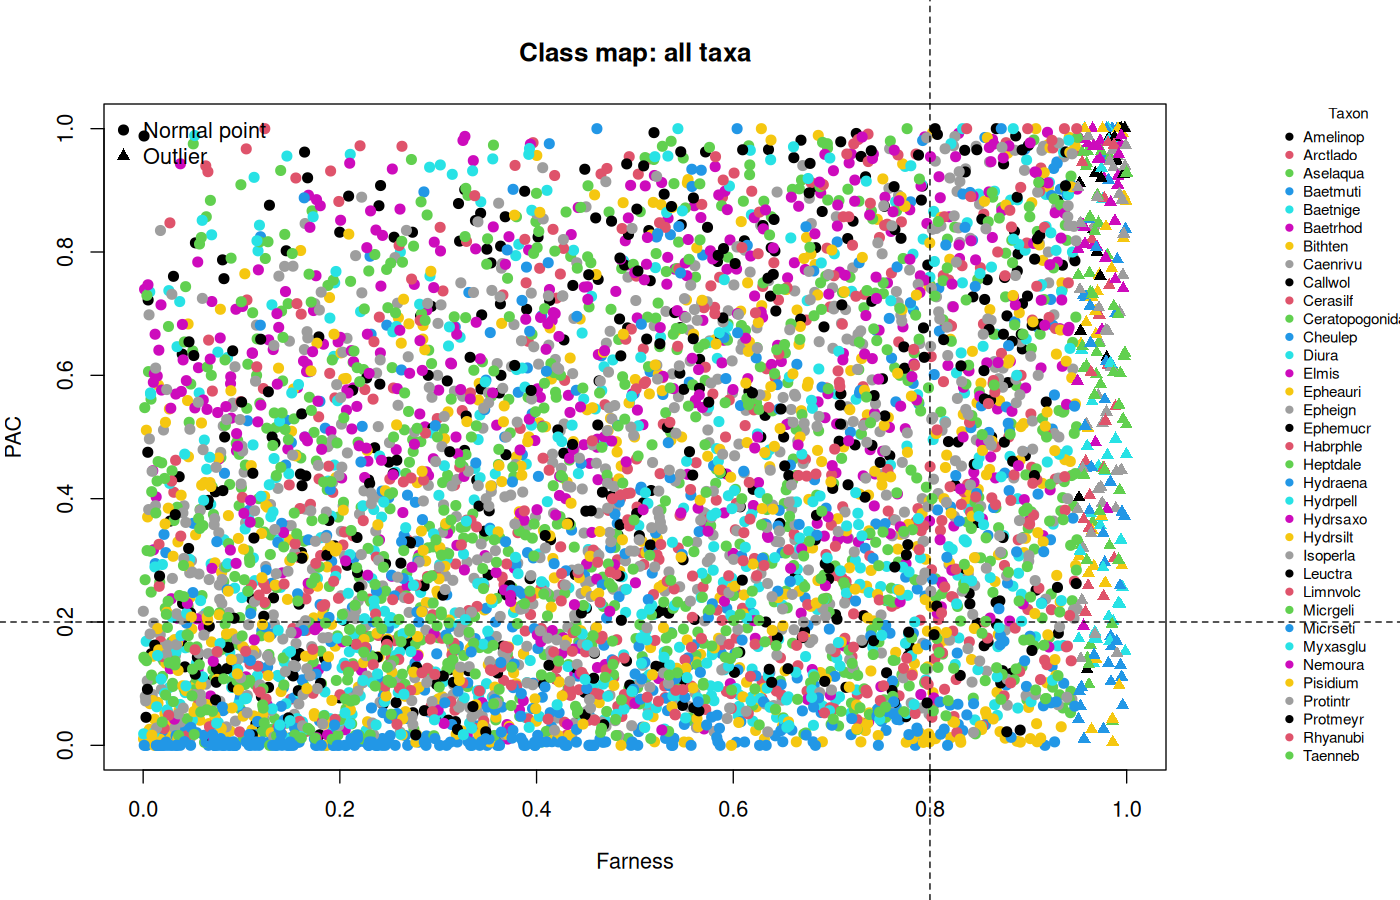
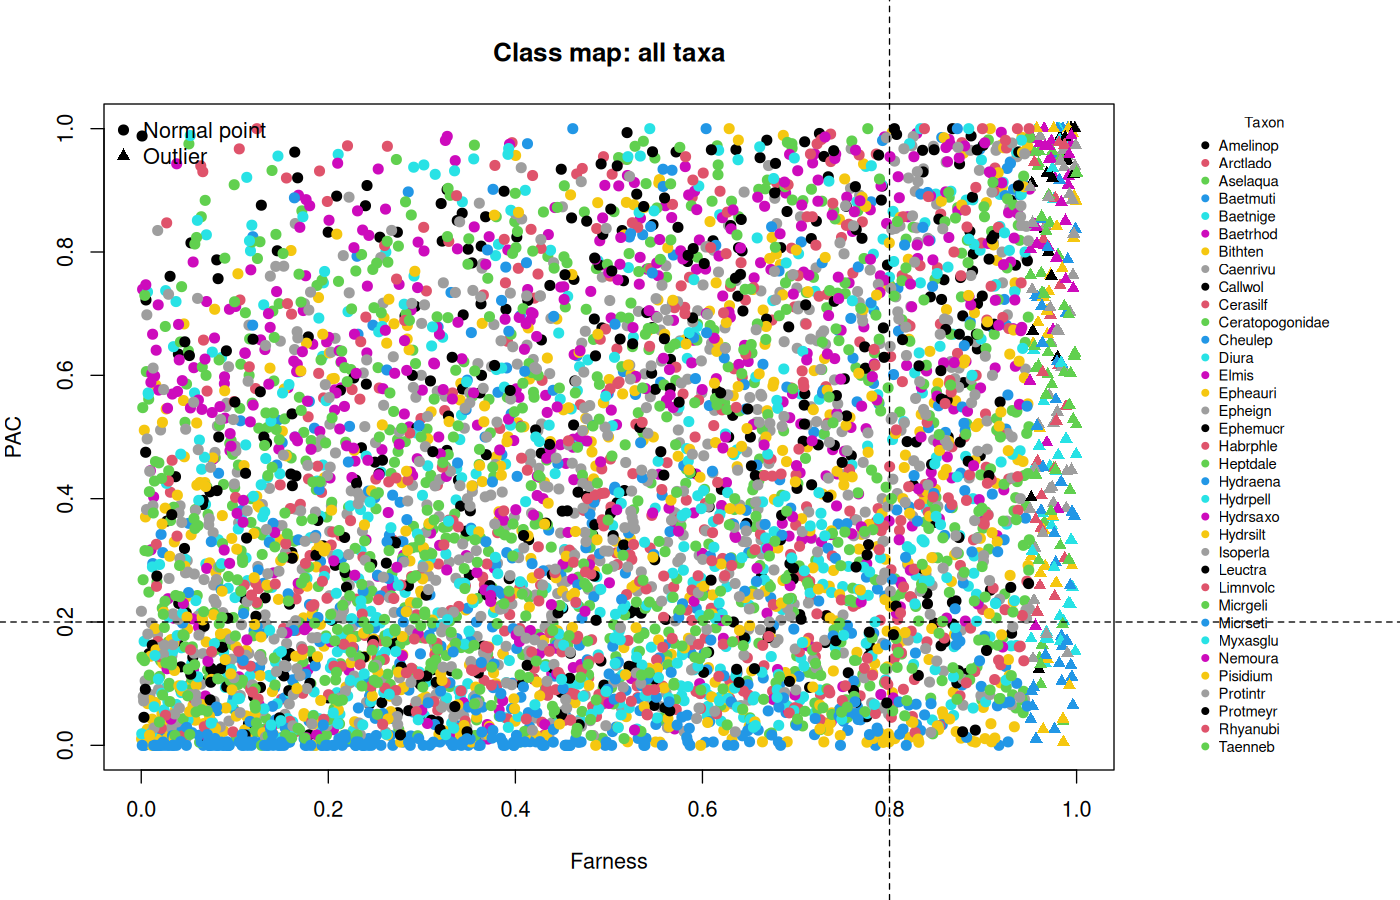
Add MIT License

diff --git a/README.md b/README.md
@@ -2,7 +2,7 @@
 
 Macroinvertebrates, such as insects, crustaceans, and molluscs, are important indicators of water quality and are often used in biomonitoring. Traditionally, identifying these organisms depends on taxonomic experts, which can be slow and prone to mistakes. Using machine learning could speed up the process and produce more consistent results, provided the models are chosen carefully.
 
-Our dataset contains 5,514 observations with 65 measurements for each specimen, covering both shape and intensity features. For the initial exploratory work, we focused on 16 features: area (`Area`), perimeter (`Perim`), width (`Width`), height (`Height`), major and minor axes (`Major`, `Minor`), angle (`Angle`), circularity (`Circ`), Feret diameter (`Feret`), and grey-level intensity measures including mean (`Mean.gray.`), standard deviation (`StdDev.gray.`), mode (`Mode.gray.`), integrated density (`IntDen.gray.`), median (`Median.gray.`), skewness (`Skew.gray.`), and kurtosis (`Kurt.gray.`). The dataset covers 35 different taxa. Some species, like *Taenneb*, are well represented with 500 samples (followed by *Isoperla* with 450, *Aselaqua* with 278, and *Protintr* with 268), while others, such as *Ceratopogonidae*, have only 48. This imbalance makes classification more difficult, as models may favour the more common classes.
+Our dataset contains 5,514 observations across 65 columns (64 numeric measurements and the taxon label `Class`) for each specimen, covering both shape and intensity features. For the initial exploratory work, we focused on 16 features: area (`Area`), perimeter (`Perim`), width (`Width`), height (`Height`), major and minor axes (`Major`, `Minor`), angle (`Angle`), circularity (`Circ`), Feret diameter (`Feret`), and grey-level intensity measures including mean (`Mean.gray.`), standard deviation (`StdDev.gray.`), mode (`Mode.gray.`), integrated density (`IntDen.gray.`), median (`Median.gray.`), skewness (`Skew.gray.`), and kurtosis (`Kurt.gray.`). The dataset covers 35 different taxa. Some species, like *Taenneb*, are well represented with 500 samples (followed by *Isoperla* with 450, *Aselaqua* with 278, and *Protintr* with 268), while others, such as *Ceratopogonidae*, have only 48. This imbalance makes classification more difficult, as models may favour the more common classes.
 
 ![Number of samples for each macroinvertebrate taxon in the dataset](figures/classCounts.png)
 
@@ -24,13 +24,13 @@ Each feature was examined using Q–Q plots. The grey-level intensity features a
 
 ![Q-Q plots for the 16 selected features](figures/qqFeatures.png)
 
-To check the joint distribution across all 16 features, squared Mahalanobis distances were calculated as
+To check the joint distribution across all 16 features, pooled squared Mahalanobis distances were calculated as
 
 $$
 D^2 = (x - \mu)^\top \Sigma^{-1} (x - \mu),
 $$
 
-where $x$ is the feature vector, $\mu$ is the mean vector, and $\Sigma$ is the covariance matrix. The Mahalanobis distance Q–Q plot shows that the distances roughly follow a chi-square distribution across most of the data, indicating an approximate elliptical distribution. This supports the use of parametric classification methods such as discriminant analysis.
+where $x$ is the feature vector, $\mu$ is the pooled mean vector, and $\Sigma$ is the pooled covariance matrix. Comparing $D^2$ against $\chi^2_{16}$ quantiles shows that distances follow the reference line across the lower bulk of the data (up to $\chi^2_{16} \approx 20\text{–}25$) before curving sharply upward in the upper tail (reaching $D^2 = 1{,}225.4$). This heavy-tailed departure reflects right-skewed size measurements (`Area`, `IntDen.gray.`) and differences in location and scale across the 35 pooled taxa, motivating classifiers like QDA that estimate a separate mean and covariance matrix within each taxon.
 
 ![Mahalanobis distances compared against chi-square quantiles](figures/qqMahalanobis.png)
 
@@ -38,15 +38,15 @@ The features also show clear correlation patterns. Shape-related measurements, s
 
 ![Correlation matrix for the 16 exploratory features](figures/corSelected.png)
 
-![Correlation matrix across all 65 numeric measurements](figures/corAll.png)
+![Correlation matrix across all 64 numeric measurements](figures/corAll.png)
 
 ### Principal Component Analysis
 
-Principal Component Analysis (PCA) was applied to the 16 standardised features to understand the structure of the macroinvertebrate dataset and see if the features naturally separate the taxa. The first principal component (PC1) explains 45.82% of the variance, PC2 explains 21.17%, and PC3 explains 11.21%. Together, the first 5 principal components capture 90.05% of the total variance, and the first 7 components capture 94.68%. The scree plot confirms that the first few components capture most of the variation, reflecting the correlations among the morphological measurements.
+Principal Component Analysis (PCA) was applied to the 16 standardised features to understand the structure of the macroinvertebrate dataset and see if the features naturally separate the taxa. The first principal component (PC1) explains 45.82% of the variance (`0.4582`), PC2 explains 21.18% (`0.21175` in `results/pcaVariance.csv`, printed as `0.2117` by `summary(pca)`), and PC3 explains 11.21%. Together, the first 5 principal components capture 90.05% of the total variance, and the first 7 components capture 94.68%. The scree plot confirms that the first few components capture most of the variation, reflecting the correlations among the morphological measurements.
 
 ![Scree plot showing the proportion of variance explained by each principal component](figures/pcaScree.png)
 
-As shown in the PC1–PC2 scatter plot, the first two principal components show clear clustering for the most common taxa, while rare taxa are harder to see because there are fewer samples and they contribute little to the overall variation.
+As shown in the PC1–PC2 scatter plot, the first two principal components show partial separation along the main size and intensity gradients, with substantial overlap among the 35 taxa in two dimensions and rare taxa contributing little to the overall spread.
 
 ![Specimens projected onto the first two principal components (PC1 and PC2)](figures/pcaScatter.png)
 
@@ -62,17 +62,17 @@ $$
 \Sigma = \frac{1}{n - 1} \sum_{i=1}^{n} (x_i - \bar{x})(x_i - \bar{x})^\top
 $$
 
-are weighted by the number of samples in each class. This means the principal components mainly reflect the variation of the abundant taxa. PCA helps summarise the data, but it does not improve classification when passed into other models because rare taxa contribute little to the leading components.
+are weighted by the number of samples in each class. This means the principal components mainly reflect the variation of the abundant taxa. In addition, in `R/models.R`, `RF_PCA` and `kNN_PCA` apply PCA to the 15 already correlation-pruned features (retaining 11 components for 95% variance), so dropping the remaining 5% of variance removes class-specific signal and lowers cross-validated accuracy.
 
 ### Outliers and Uncertainty
 
-Outliers and ambiguous specimens were examined using class maps (`R/maps.R`), which plot the probability of alternative class (PAC, computed from out-of-bag Random Forest probabilities) against farness (the rank-normalised Mahalanobis distance of each specimen from its own class centre, with points above 0.95 marked as outliers). These analyses showed that some rare taxa have high variability, highlighting the need for models that can account for class-specific covariance and uncertainty.
+Outliers and ambiguous specimens were examined using class maps (`R/maps.R`), which plot the probability of alternative class (PAC, computed from out-of-bag Random Forest probabilities) against farness (the rank-normalised Mahalanobis distance of each specimen from its own class centre on $(0, 1]$, with the top 5% above 0.95 marked as outliers). Across all 35 taxa, many specimens sit at moderate-to-high PAC, highlighting substantial inter-taxon overlap and the need for models that account for class-specific covariance structures.
 
 ![Class map across all 35 taxa](figures/classMapAll.png)
 
 ## Multi-Class Classification and Model Performance
 
-Before fitting the classifiers in `R/models.R`, the dataset was split into an 80% training set and a 20% hold-out test set. Using only the 80% training split across all 65 columns, near-zero-variance predictors, variables with pairwise correlations above 0.75, and linear combinations were removed. This filtering kept 15 features (`results/keptFeatures.txt`): `Angle`, `Circ`, `FeretY`, `AR`, `StdDev.gray.`, `Min.gray.`, `Max.gray.`, `XM.gray.`, `StdDev.blue.`, `Min.blue.`, `Max.blue.`, `Max.red.`, `IntDen.red.`, `Skew.red.`, and `Kurt.red.`.
+Before fitting the classifiers in `R/models.R`, the dataset was split into an 80% training set and a 20% hold-out test set. Using only the 80% training split across all 64 numeric columns, near-zero-variance predictors, variables with pairwise correlations above 0.75, and linear combinations were removed. This filtering kept 15 features (`results/keptFeatures.txt`): `Angle`, `Circ`, `FeretY`, `AR`, `StdDev.gray.`, `Min.gray.`, `Max.gray.`, `XM.gray.`, `StdDev.blue.`, `Min.blue.`, `Max.blue.`, `Max.red.`, `IntDen.red.`, `Skew.red.`, and `Kurt.red.`.
 
 Seven models were trained on the 80% training data using 10-fold cross-validation repeated 5 times: Quadratic Discriminant Analysis (`QDA`), Random Forest (`RF`), Random Forest with PCA (`RF_PCA`), k-Nearest Neighbours (`kNN`), k-Nearest Neighbours with PCA (`kNN_PCA`), Linear Discriminant Analysis (`LDA`), and a Decision Tree (`Tree`). The table below summarises their cross-validated performance (`results/cvTable.csv`).
 
@@ -90,7 +90,7 @@ Seven models were trained on the 80% training data using 10-fold cross-validatio
 
 QDA achieved the lowest misclassification error (`0.2856`, accuracy `0.7144`, kappa `0.7021`), followed closely by Random Forest (`0.7015` accuracy). Evaluating the trained QDA model on the untouched 20% hold-out test set (`results/holdout.csv`) gave an overall accuracy of `0.7325` (95% CI: `0.7052, 0.7586`), a Kappa of `0.7209`, macro-precision of `0.7384`, macro-recall of `0.7240`, macro-F1 of `0.7311`, and balanced accuracy of `0.8580`. On the hold-out set, distinctive taxa such as *Micrgeli*, *Myxasglu*, *Pisidium*, and *Callwol* reached `1.0000` sensitivity (and *Bithten* and *Micrseti* reached `0.9787`), while the hardest taxa to classify were *Heptdale* (`0.2258` sensitivity), *Habrphle* (`0.3333`), *Hydrpell* (`0.3889`), *Hydrsaxo* (`0.4167`), and *Protmeyr* (`0.4286`).
 
-![QDA top posterior probability against margin over the runner-up class](figures/qdaConfidence.png)
+![QDA top posterior probability against margin over the runner-up class on the training rows](figures/qdaConfidence.png)
 
 ### QDA Visualisation
 
@@ -110,17 +110,17 @@ The QDA decision boundaries for the four most common species (*Taenneb*, *Isoper
 
 This dataset presents two main challenges: class imbalance and differences in feature variability between taxa. Some taxa are well represented in the dataset, while others have only a small number of samples. This imbalance makes classification more difficult because models tend to learn patterns from common taxa more easily than from rare ones. In addition, the spread of the features differs across taxa: some taxa form compact clusters in feature space, while others show much wider variation.
 
-The class maps help illustrate these challenges. For the eight most common taxa, points form tight clusters with few mistakes, indicating high classification confidence. In contrast, the eight rarest taxa appear more scattered and contain more misclassified points, reflecting the difficulty of learning reliable patterns when only a small number of samples are available.
+In `R/maps.R`, separate 8-taxon class maps are also fitted on the eight most common taxa and on the eight rarest taxa (with farness rank-normalised on $(0, 1]$ in each plot). Among the eight most abundant taxa (*Taenneb*, *Isoperla*, *Aselaqua*, *Protintr*, *Baetmuti*, *Micrseti*, *Bithten*, *Diura*), morphological overlap among the large stoneflies and mayflies produces a broad band of high-PAC points (`17.9%` with $\text{PAC} > 0.5$, `46.3%` with $\text{PAC} > 0.2$), whereas distinctive taxa such as *Bithten* and *Micrseti* sit near $\text{PAC} = 0$. When the eight rarest taxa are separated only from one another, several morphologically distinct taxa (*Callwol*, *Micrgeli*, *Pisidium*, *Ceratopogonidae*, *Ephemucr*) have near-zero PAC (`6.4%` with $\text{PAC} > 0.5$, `20.1%` with $\text{PAC} > 0.2$), with most ambiguity concentrated in *Caenrivu*, *Habrphle*, and *Arctlado*.
 
 ![Class map for the eight most frequent taxa](figures/classMapTop8.png)
 
 ![Class map for the eight least frequent taxa](figures/classMapLast8.png)
 
-Quadratic Discriminant Analysis performs best because it allows each class to have its own covariance matrix. This flexibility enables the model to capture differences not only in the mean feature values of taxa but also in how their features vary in space. Other models impose stronger assumptions or are more sensitive to the dataset structure: LDA assumes equal covariance across taxa, which produces boundaries that are too simple (`0.5512` accuracy); kNN (`0.5894`) is strongly affected by class imbalance, making rare taxa more likely to be misclassified; and Random Forests (`0.7015`) can model non-linear relationships but still struggle slightly more than QDA when classes overlap strongly and rare taxa contribute little information to the training process.
+Quadratic Discriminant Analysis performs best across the full 35-taxon problem because it allows each class to have its own covariance matrix. This flexibility enables the model to capture differences not only in the mean feature values of taxa but also in how their features vary in space. Other models impose stronger assumptions or are more sensitive to the dataset structure: LDA assumes equal covariance across taxa, which produces boundaries that are too simple (`0.5512` accuracy); kNN (`0.5894`) is strongly affected by class imbalance, making rare taxa more likely to be misclassified; and Random Forests (`0.7015`) can model non-linear relationships but still struggle slightly more than QDA when classes overlap strongly and rare taxa contribute little information to the training process.
 
 ## Regularised Logistic Regression: *Aselaqua* vs. *Isoperla*
 
-In the second part of the study (`R/logistic.R`), we classify two well-represented species of waterbugs: *Aselaqua* (278 specimens) and *Isoperla* (450 specimens). Logistic regression is a natural choice because it gives a probability for each class. When predictors are many (all 65 measurements) or strongly correlated, standard logistic regression can overfit or give unstable coefficients. To handle this, we compare standard stepwise logistic regression against four regularisation methods using `glmnet`: Ridge, Lasso, Elastic Net, and Relaxed Lasso.
+In the second part of the study (`R/logistic.R`), we classify two well-represented species of waterbugs: *Aselaqua* (278 specimens) and *Isoperla* (450 specimens). Logistic regression is a natural choice because it gives a probability for each class. When predictors are many (all 64 numeric measurements) or strongly correlated, standard logistic regression can overfit or give unstable coefficients. To handle this, we compare standard stepwise logistic regression against four regularisation methods using `glmnet`: Ridge, Lasso, Elastic Net, and Relaxed Lasso.
 
 ### Logistic Regression Model
 
@@ -139,7 +139,7 @@ $$
 where $\beta_0$ is the intercept and $\beta$ is the vector of coefficients. The coefficients are estimated using maximum likelihood, with log-likelihood function
 
 $$
-\ell(\beta_0, \beta) = \sum_{i=1}^{n} \left[ y_i(\beta_0 + x_i^\top \beta) - \log\left(1 + e^{\beta_0 + x_i^\top \beta}\right) \right]
+\ell(\beta_0, \beta) = \sum_{i=1}^{n} \ell_i(\beta_0, \beta), \qquad \ell_i(\beta_0, \beta) = y_i(\beta_0 + x_i^\top \beta) - \log\left(1 + e^{\beta_0 + x_i^\top \beta}\right),
 $$
 
 and maximum likelihood estimator
@@ -154,20 +154,20 @@ $$
 \text{Var}(\hat{\beta}) \approx (X^\top W X)^{-1},
 $$
 
-where $X$ is the model matrix and $W$ is a diagonal matrix with $w_{ii} = \pi_i(1 - \pi_i)$. Highly correlated predictors make $X^\top W X$ nearly singular, which increases variance and can lead to unstable predictions. In addition, when the two species are nearly separable across 65 correlated predictors, standard unpenalised logistic regression produces extreme fitted probabilities (numerically 0 or 1), causing coefficient estimates to blow up and hurting out-of-sample performance.
+where $X$ is the model matrix and $W$ is a diagonal matrix with $w_{ii} = \pi_i(1 - \pi_i)$. Highly correlated predictors make $X^\top W X$ nearly singular, which increases variance and can lead to unstable predictions. In addition, when the two species are nearly separable across 64 correlated predictors, standard unpenalised logistic regression produces extreme fitted probabilities (numerically 0 or 1), causing coefficient estimates to blow up and hurting out-of-sample performance.
 
 ### Regularised Logistic Regression
 
 Regularised logistic regression adds a penalty to reduce variance:
 
 $$
-\min_{\beta_0, \beta} \left[ -\frac{1}{n} \sum_{i=1}^{n} \ell(y_i, \beta_0 + x_i^\top \beta) + \lambda \left( \frac{1 - \alpha}{2} \|\beta\|_2^2 + \alpha \|\beta\|_1 \right) \right],
+\min_{\beta_0, \beta} \left[ -\frac{1}{n} \sum_{i=1}^{n} \ell_i(\beta_0, \beta) + \lambda \left( \frac{1 - \alpha}{2} \|\beta\|_2^2 + \alpha \|\beta\|_1 \right) \right],
 $$
 
-where $\lambda$ controls the strength of the penalty and $\alpha$ determines the type. Ridge ($\alpha = 0$) shrinks all coefficients slightly. Lasso ($\alpha = 1$) can shrink coefficients to zero and select important predictors. Elastic Net ($0 < \alpha < 1$, here $\alpha = 0.5$) mixes $L_1$ and $L_2$ penalties. Relaxed Lasso reduces bias by refitting an unpenalised logistic model on the predictors selected by Lasso:
+where $\lambda$ controls the strength of the penalty and $\alpha$ determines the type. Ridge ($\alpha = 0$) shrinks all coefficients slightly. Lasso ($\alpha = 1$) can shrink coefficients to zero and select important predictors. Elastic Net ($0 < \alpha < 1$, here $\alpha = 0.5$) mixes $L_1$ and $L_2$ penalties. In `R/logistic.R`, Relaxed Lasso (`relaxed`) implements the $\gamma = 0$ post-Lasso logistic refit—fitting an unpenalised binomial `glm` restricted to the active predictor set $S = \{j : \hat{\beta}_{\text{lasso}, j} \ne 0\}$ selected by Lasso at `lambda.min`:
 
 $$
-\beta_{\text{relax}} = \gamma \beta_{\text{lasso}} + (1 - \gamma)\beta_{\text{LS}}.
+\hat{\beta}_{\text{relax}} = \arg\max_{\beta_0,\, \beta_S} \sum_{i=1}^{n} \ell_i(\beta_0, \beta_S), \qquad S = \{j : \hat{\beta}_{\text{lasso}, j} \ne 0\}.
 $$
 
 ### Comparison
@@ -188,9 +188,9 @@ and probability error is measured by Mean Squared Error, $\text{MSE} = \frac{1}{
 | `relaxed` | 0.9643 | 0.0291 |
 | `logistic` | 0.9602 | 0.0397 |
 
-When evaluated out-of-sample across 10 folds, `lasso` (`0.9753` accuracy, `0.0189` MSE) and `elastic` (`0.9725` accuracy, `0.0208` MSE) perform best. Because many of the 65 shape and colour-channel features are strongly correlated and the two classes are nearly separable on the training folds, unpenalised stepwise `logistic` (`0.9602` accuracy, `0.0397` MSE) and the unpenalised `relaxed` refit (`0.9643` accuracy, `0.0291` MSE) produce extreme 0/1 fitted probabilities and overfit slightly to the training folds. Shrinking and selecting predictors with Lasso or Elastic Net stabilises the probabilities and cuts the out-of-sample MSE in half. On the full two-species dataset, Lasso keeps 36 variables (`results/lassoVariables.csv`), with the largest weights on shape descriptors (`Circ`, `Round`, `Solidity`, `AR`) and colour standard deviations (`StdDev.blue.`, `StdDev.green.`).
+When evaluated out-of-sample across 10 folds, `lasso` (`0.9753` accuracy, `0.0189` MSE) and `elastic` (`0.9725` accuracy, `0.0208` MSE) perform best. Because many of the 64 shape and colour-channel features are strongly correlated and the two classes are nearly separable on the training folds, unpenalised stepwise `logistic` (`0.9602` accuracy, `0.0397` MSE) and the unpenalised `relaxed` refit (`0.9643` accuracy, `0.0291` MSE) produce extreme 0/1 fitted probabilities and overfit slightly to the training folds. Shrinking and selecting predictors with Lasso or Elastic Net stabilises the probabilities and cuts the out-of-sample MSE in half. On the full two-species dataset, Lasso keeps 36 variables (`results/lassoVariables.csv`). Because `coef(lassoFull)` reports coefficients rescaled back to raw measurement units, bounded shape ratios in $[0, 1]$ (`Circ`, `Round`, `Solidity`) and colour standard deviations (`StdDev.blue.`, `StdDev.green.`) have the largest unstandardised coefficient magnitudes compared with large-scale measurements such as `Area`.
 
 ## Conclusion
 
-This study examined the classification of freshwater macroinvertebrates using image-derived morphological and intensity features. Across all 35 taxa, Quadratic Discriminant Analysis provides the most reliable performance (`0.7144` cross-validated accuracy, `0.7325` hold-out accuracy). Unlike models that assume a common covariance structure, QDA allows each taxon to have its own covariance matrix, capturing differences not only in the mean values of features but also in how those features vary within each taxon. For the two-species problem (*Aselaqua* vs. *Isoperla*) across all 65 correlated measurements, $L_1$-regularised logistic regression (Lasso and Elastic Net) prevents the extreme 0/1 probability overfitting of unpenalised logistic regression and achieves the highest out-of-sample accuracy (`0.9753`) and lowest MSE (`0.0189`).
+This study examined the classification of freshwater macroinvertebrates using image-derived morphological and intensity features. Across all 35 taxa, Quadratic Discriminant Analysis provides the most reliable performance (`0.7144` cross-validated accuracy, `0.7325` hold-out accuracy). Unlike models that assume a common covariance structure, QDA allows each taxon to have its own covariance matrix, capturing differences not only in the mean values of features but also in how those features vary within each taxon. For the two-species problem (*Aselaqua* vs. *Isoperla*) across all 64 correlated measurements, $L_1$-regularised logistic regression (Lasso and Elastic Net) prevents the extreme 0/1 probability overfitting of unpenalised logistic regression and achieves the highest out-of-sample accuracy (`0.9753`) and lowest MSE (`0.0189`).
 
